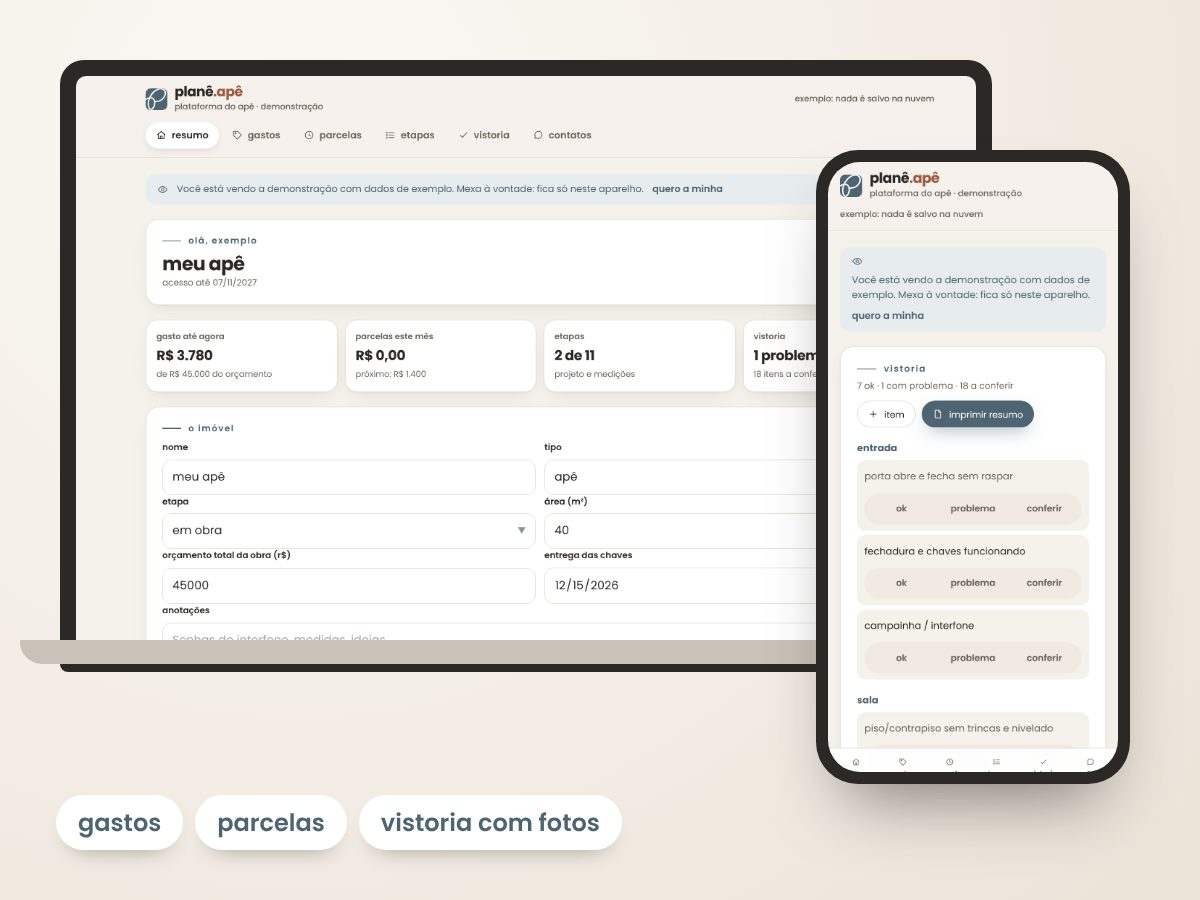
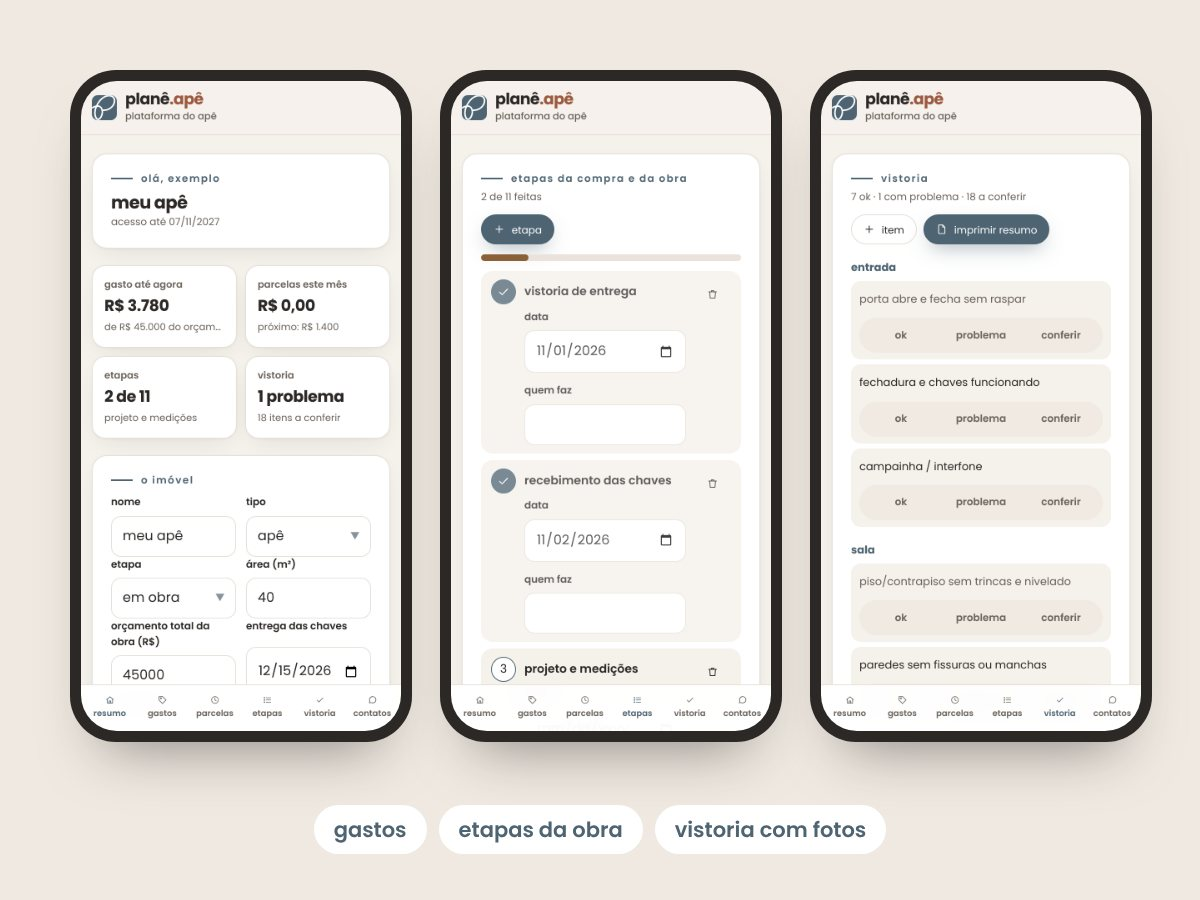
planê.apê: leitura com IA procura a chave em todas as admins e mostra o motivo quando falha; envio seguro dos arquivos da loja pelo GitHub; cartões alinhados com preço no Pix e no cartão; faixa de arquivos animada; projetos em primeira pessoa; mockup da plataforma só com celulares
Claude-Session: https://claude.ai/code/session_013WAnqmvzd8ZWtsf2naXoHW

Changed region(s): [[0.0, 0.0622, 0.9867, 0.9644]]

diff --git a/supabase/functions/pagamentos/ape.ts b/supabase/functions/pagamentos/ape.ts
@@ -3,6 +3,7 @@
 // Importado pelo index.ts da função "pagamentos". O preço nunca vem do navegador.
 
 import { PDFDocument, StandardFonts, rgb, degrees } from 'npm:pdf-lib@1.17.1'
+import { unzipSync } from 'npm:fflate@0.8.2'
 import type { SupabaseClient } from 'npm:@supabase/supabase-js@2'
 
 type J = Record<string, any>
@@ -314,13 +315,17 @@ export function makeApe({ db, asaas, json, site, env }: Deps) {
     for (let i = 0; i < u.length; i += 0x8000) s += String.fromCharCode(...u.subarray(i, i + 0x8000))
     return btoa(s)
   }
+  /** Chave do Gemini: o segredo GEMINI_API_KEY ou a chave que uma admin colocou no planê (configurações → assistente). */
   async function geminiKey() {
-    const k = env('GEMINI_API_KEY')
+    const k = env('GEMINI_API_KEY').trim()
     if (k) return k
-    const { data: adm } = await db.from('admins').select('user_id').limit(1).maybeSingle()
-    if (!adm) return ''
-    const { data: ws } = await db.from('workspace').select('data').eq('user_id', adm.user_id).maybeSingle()
-    return String((ws?.data as J | undefined)?.settings?.aiKey ?? '')
+    const { data: adms } = await db.from('admins').select('user_id')
+    for (const a of adms ?? []) {
+      const { data: ws } = await db.from('workspace').select('data').eq('user_id', a.user_id).maybeSingle()
+      const key = String((ws?.data as J | undefined)?.settings?.aiKey ?? '').trim()
+      if (key) return key
+    }
+    return ''
   }
   const PROMPT = (hoje: string, texto: string) => `Você lê UM orçamento de obra, reforma ou móveis (pode ser PDF, foto ou texto) e devolve só JSON, sem comentários. Hoje é ${hoje}.
 Formato:
@@ -362,7 +367,11 @@ Regras: números em reais sem R$ (1234.5). Não invente: o que não estiver escr
       body: JSON.stringify({ contents: [{ role: 'user', parts: [...parts, { text: PROMPT(hojeBR(), texto) }] }], generationConfig: { temperature: 0.1, responseMimeType: 'application/json', thinkingConfig: { thinkingBudget: 0 } } }),
     })
     const out = (await r.json().catch(() => ({}))) as J
-    if (!r.ok) return json({ erro: 'não deu para ler agora' }, 502)
+    if (!r.ok) {
+      const msg = String(out.error?.message ?? '')
+      console.log('ape-ler: Gemini respondeu', r.status, msg.slice(0, 300))
+      return json({ erro: r.status === 400 && /api key/i.test(msg) ? 'chave do Gemini inválida' : r.status === 429 ? 'limite do Gemini atingido' : 'não deu para ler agora', status: r.status }, 502)
+    }
     const txt = String(out.candidates?.[0]?.content?.parts?.map((x: J) => x.text ?? '').join('') ?? '')
     let v: J = {}
     try {
@@ -374,5 +383,61 @@ Regras: números em reais sem R$ (1234.5). Não invente: o que não estiver escr
     return json({ orcamento: v })
   }
 
-  return { criar, pedido, baixar, recuperar, reembolsar, ler, marcarPago }
+  /* ===== arquivos da loja enviados criptografados (pelo GitHub): só este servidor tem a chave para abrir ===== */
+  async function chave() {
+    const { data: ja } = await db.from('ape_segredos').select('dados').eq('id', 'arquivos').maybeSingle()
+    if (ja) return json({ publica: (ja.dados as J).publica })
+    const par = await crypto.subtle.generateKey({ name: 'RSA-OAEP', modulusLength: 3072, publicExponent: new Uint8Array([1, 0, 1]), hash: 'SHA-256' }, true, ['encrypt', 'decrypt'])
+    const publica = await crypto.subtle.exportKey('jwk', par.publicKey)
+    const privada = await crypto.subtle.exportKey('jwk', par.privateKey)
+    await db.from('ape_segredos').insert({ id: 'arquivos', dados: { publica, privada } })
+    return json({ publica })
+  }
+  const FONTE = /^https:\/\/raw\.githubusercontent\.com\/arqlais\/controle\/[0-9a-f]{7,40}\/ape-import\/[\w.-]+\.bin$/
+  async function importar(body: J) {
+    const url = String(body.url ?? '')
+    if (!FONTE.test(url)) return json({ erro: 'endereço não aceito' }, 400)
+    const { data: seg } = await db.from('ape_segredos').select('dados').eq('id', 'arquivos').maybeSingle()
+    if (!seg) return json({ erro: 'sem chave' }, 400)
+    const r = await fetch(url)
+    if (!r.ok) return json({ erro: `não baixou (${r.status})` }, 400)
+    const buf = new Uint8Array(await r.arrayBuffer())
+    if (buf.length > 40 * 1024 * 1024) return json({ erro: 'grande demais' }, 400)
+    // formato: [2 bytes: tamanho da chave cifrada][chave AES cifrada com RSA-OAEP][12 bytes IV][zip cifrado com AES-GCM]
+    const n = (buf[0] << 8) | buf[1]
+    const priv = await crypto.subtle.importKey('jwk', (seg.dados as J).privada, { name: 'RSA-OAEP', hash: 'SHA-256' }, false, ['decrypt'])
+    const aesRaw = await crypto.subtle.decrypt({ name: 'RSA-OAEP' }, priv, buf.slice(2, 2 + n))
+    const aes = await crypto.subtle.importKey('raw', aesRaw, 'AES-GCM', false, ['decrypt'])
+    const iv = buf.slice(2 + n, 14 + n)
+    const zip = new Uint8Array(await crypto.subtle.decrypt({ name: 'AES-GCM', iv }, aes, buf.slice(14 + n)))
+    const arquivos = unzipSync(zip)
+    const { map } = await loja()
+    const ids = [...Object.keys(map).filter((id) => map[id].cat === 'arquivos'), 'bonus'].sort((a, b) => b.length - a.length)
+    const st = db.storage.from('ape-arquivos')
+    const feitos: string[] = []
+    const fora: string[] = []
+    for (const [nome, dados] of Object.entries(arquivos)) {
+      if (nome.endsWith('/') || nome.startsWith('__')) continue
+      const base = nome.split('/').pop()!.replace(/\.[^.]+$/, '').toLowerCase()
+      const id = ids.find((x) => base === x || base.startsWith(x + '-'))
+      if (!id) {
+        fora.push(nome)
+        continue
+      }
+      const arq = nome.split('/').pop()!
+      const tipo = /\.pdf$/i.test(arq) ? 'application/pdf' : 'application/vnd.openxmlformats-officedocument.spreadsheetml.sheet'
+      const { error } = await st.upload(`${id}/${arq}`, dados, { contentType: tipo, upsert: true })
+      if (error) fora.push(`${nome} (${error.message})`)
+      else feitos.push(`${id}/${arq}`)
+    }
+    // entregas já marcadas (PDF com a licença) são refeitas com os arquivos novos
+    const { data: velhos } = await st.list('entregas', { limit: 1000 })
+    for (const pasta of velhos ?? []) {
+      const { data: fs } = await st.list(`entregas/${pasta.name}`, { limit: 100 })
+      if (fs?.length) await st.remove(fs.map((f) => `entregas/${pasta.name}/${f.name}`))
+    }
+    return json({ ok: true, guardados: feitos.length, arquivos: feitos, fora })
+  }
+
+  return { criar, pedido, baixar, recuperar, reembolsar, ler, marcarPago, chave, importar }
 }

diff --git a/src/ape/Loja.tsx b/src/ape/Loja.tsx
@@ -9,10 +9,12 @@ import { SITE_APE, cpfOk, emailOk, fmtCpf, useCarrinho, useToast, useTravaRolage
 /* Loja do planê.apê: página de vendas aberta a todos, carrinho, checkout e página do pedido. */
 
 type ById = (id: string) => Produto | undefined
+let PIX = 5 // desconto do Pix da loja salva (definido ao abrir a loja)
 
 export function Loja({ ajustes, me, whats, abrir }: { ajustes: Ajustes; me: Morador | null; whats: string; abrir?: string }) {
   const produtos = ajustes.produtos
   const pixPct = ajustes.pixPct ?? 5
+  PIX = pixPct
   const ativos = produtos.filter((p) => p.ativo)
   const [cat, setCat] = useState<'todos' | 'comprando' | 'comprei'>('todos')
   const [aberto, setAberto] = useState<Produto | null>(() => ativos.find((p) => p.id === abrir) || null)
@@ -70,6 +72,16 @@ export function Loja({ ajustes, me, whats, abrir }: { ajustes: Ajustes; me: Mora
           {['m-compra.jpg', 'm-planilha.jpg', 'm-checklist.jpg'].map((f, i) => <img key={f} src={`ape/amostras/${f}`} alt="" className={`ape-lp-card c${i}`} />)}
         </div>
       </section>
+
+      <div className="ape-marquee" aria-hidden="true">
+        <div className="ape-marquee-track">
+          {[0, 1].map((k) => (
+            <span key={k}>
+              {arquivos.map((p) => <b key={p.id}><ApeIcon name="check" />{p.nome.toLowerCase()}</b>)}
+            </span>
+          ))}
+        </div>
+      </div>
 
       <section className="ape-story ape-panel">
         <span className="ape-me-av">L</span>
@@ -217,13 +229,13 @@ function ServicosSec({ whats, me }: { whats: string; me: Morador | null }) {
   return (
     <section className="ape-servicos ape-panel" id="loja-servicos">
       <div className="ape-servicos-h">
-        <ApeArt name="projeto3d" size={48} tone="sec" />
+        <ApeArt name="projeto3d" size={44} tone="sec" />
         <div>
           <p className="ape-eyebrow">serviço à parte · não faz parte da loja</p>
-          <h3 className="ape-sec-t">projetos e <em>reformas</em></h3>
+          <h3 className="ape-sec-t">precisa de um <em>projeto?</em></h3>
         </div>
       </div>
-      <p className="ape-note" style={{ margin: 0 }}>A {APE.dona} é estudante de Arquitetura e Urbanismo e trabalha em parceria com o pai, engenheiro civil, em projetos, serviços técnicos e reformas, inclusive para quem acabou de receber as chaves.</p>
+      <p className="ape-servicos-eu">Sou a {APE.dona}, estou no {APE.semestre} semestre de Arquitetura e Urbanismo e trabalho junto com o meu pai, que é engenheiro civil. Fazemos projetos, serviços técnicos e reformas, inclusive para quem acabou de receber as chaves.</p>
       <div className="ape-servicos-grid">
         {[
           ['projeto de layout e interiores', 'Planta com móveis, medidas e acabamentos.'],
@@ -304,14 +316,14 @@ const somaAvulsos = (p: Produto, byId: ById) => (p.combo || []).reduce((t, id) =
 
 function Preco({ p, byId, pixPct }: { p: Produto; byId: ById; pixPct?: number }) {
   const soma = somaAvulsos(p, byId)
-  const eco = p.combo?.length ? Math.max(0, soma - reais(p.preco)) : 0
+  const v = reais(p.preco)
+  const eco = p.combo?.length ? Math.max(0, soma - v) : 0
+  const pix = pixPct ? Math.round((v - Math.round(v * pixPct / 100 * 100) / 100) * 100) / 100 : v // mesma conta do carrinho e do servidor
   return (
-    <div className="ape-price">
-      {eco > 0 && <s className="ape-de ape-keep">{brl(soma)} separados</s>}
-      <span className="ape-keep">{p.preco}</span>
-      {p.unidade && <small> {p.unidade}</small>}
-      {pixPct ? <span className="ape-note ape-keep" style={{ display: 'block' }}>{brl(Math.round(reais(p.preco) * (100 - pixPct)) / 100)} no Pix</span> : null}
-      {eco > 0 && <span className="ape-pill rosa ape-keep" style={{ display: 'table', marginTop: 6 }}>economia de {brl(eco)} ({Math.round((eco / soma) * 100)}%)</span>}
+    <div className="ape-precos">
+      <div className="ape-precos-pix ape-keep">{brl(pix)} <small>no Pix</small></div>
+      <div className="ape-precos-cartao ape-keep">{brl(v)} no cartão{p.unidade ? ` · ${p.unidade}` : ''}</div>
+      {eco > 0 ? <div className="ape-precos-eco ape-keep"><s>{brl(soma)}</s> separados · economia de {Math.round((eco / soma) * 100)}%</div> : <div className="ape-precos-eco" aria-hidden="true">&nbsp;</div>}
     </div>
   )
 }
@@ -359,12 +371,11 @@ function ProdCard({ p, n, byId, onOpen, cart, onAdd, me, whats }: { p: Produto; 
       </div>
       <div className="ape-tags">
         {p.tag && <span className={`ape-pill ${p.destaque ? 'azul' : 'terra'}`}>{p.tag}</span>}
-        {(p.numeros || []).slice(0, 2).map((x) => <span key={x} className="ape-pill ape-keep">{x}</span>)}
-        {p.combo?.length ? <span className="ape-pill">{p.combo.length} arquivos</span> : null}
+        {p.combo?.length ? <span className="ape-pill">{p.combo.length} arquivos</span> : (p.numeros || []).slice(0, 1).map((x) => <span key={x} className="ape-pill ape-keep">{x}</span>)}
       </div>
-      <p>{p.desc}</p>
-      {(p.itens || []).length > 0 && p.combo?.length ? <p className="ape-note" style={{ margin: 0 }}><ApeIcon name="gift" /> {p.itens!.map((x) => x.replace(/^\+\s*/, '')).join(' · ')}</p> : null}
-      <Preco p={p} byId={byId} />
+      <p className="ape-prod-desc">{p.desc}</p>
+      {(p.itens || []).length > 0 && p.combo?.length ? <p className="ape-note ape-prod-extra"><ApeIcon name="gift" /> {p.itens!.map((x) => x.replace(/^\+\s*/, '')).join(' · ')}</p> : null}
+      <Preco p={p} byId={byId} pixPct={PIX} />
       <div className="ape-acts">
         <button className="ape-btn wide" onClick={onOpen}>detalhes</button>
         <BotaoCompra p={p} cart={cart} onAdd={onAdd} me={me} whats={whats} />

diff --git a/src/ape/ape.css b/src/ape/ape.css
@@ -854,3 +854,33 @@
 .ape-tabela { list-style: none; margin: 0; padding: 0; display: grid; gap: 3px; font-size: 12.5px; }
 .ape-tabela li { display: flex; justify-content: space-between; gap: 10px; border-bottom: 1px solid var(--a-line); padding: 3px 0; }
 .ape-tabela li span { min-width: 0; overflow-wrap: anywhere; }
+
+/* cartões da loja alinhados: mesma altura de título, descrição e preço */
+.ape-shop { align-items: stretch; }
+.ape .ape-prod { display: grid; grid-template-rows: auto auto auto 1fr auto auto; gap: 10px; padding: 16px; }
+.ape .ape-prod .ape-prod-h { min-height: 2.6em; align-items: center; }
+.ape .ape-prod .ape-prod-h h3 { font-size: 15.5px; line-height: 1.3; display: -webkit-box; -webkit-line-clamp: 2; -webkit-box-orient: vertical; overflow: hidden; }
+.ape .ape-prod .ape-tags { flex-wrap: nowrap; overflow: hidden; min-height: 22px; }
+.ape .ape-prod-desc { font-size: 12.5px; line-height: 1.5; display: -webkit-box; -webkit-line-clamp: 3; -webkit-box-orient: vertical; overflow: hidden; align-self: start; }
+.ape .ape-prod-extra { margin: 0; font-size: 11.5px; align-self: end; }
+.ape .ape-prod .ape-acts { margin-top: 0; }
+.ape .ape-prod .ape-acts .ape-btn { min-height: 42px; font-size: 13.5px; }
+.ape-precos { display: grid; gap: 1px; padding-top: 10px; border-top: 1px solid var(--a-line); }
+.ape-precos-pix { font-size: 21px; font-weight: 700; letter-spacing: -0.02em; color: var(--a-pri); line-height: 1.15; }
+.ape-precos-pix small { font-size: 12px; font-weight: 600; color: var(--a-pri); letter-spacing: 0; }
+.ape-precos-cartao { font-size: 12px; color: var(--a-muted); }
+.ape-precos-eco { font-size: 11.5px; color: var(--a-sec); font-weight: 600; min-height: 1.4em; }
+.ape-precos-eco s { color: var(--a-muted); font-weight: 500; }
+.ape-sheet .ape-precos { border-top: 0; padding-top: 0; }
+
+/* faixa com os nomes dos arquivos: corre sem parar */
+.ape .ape-marquee { overflow: hidden; border-block: 1px solid var(--a-line); padding: 10px 0; margin-inline: -16px; -webkit-mask-image: linear-gradient(90deg, transparent, #000 8%, #000 92%, transparent); mask-image: linear-gradient(90deg, transparent, #000 8%, #000 92%, transparent); }
+.ape .ape-marquee-track { display: flex; width: max-content; animation: ape-corre 45s linear infinite; }
+.ape .ape-marquee:hover .ape-marquee-track { animation-play-state: paused; }
+.ape .ape-marquee-track > span { display: flex; gap: 26px; padding-right: 26px; }
+.ape .ape-marquee b { display: inline-flex; gap: 6px; align-items: center; font-size: 13px; font-weight: 600; color: var(--a-muted); white-space: nowrap; }
+.ape .ape-marquee b .ape-i { color: var(--a-pri); }
+@keyframes ape-corre { to { transform: translateX(-50%); } }
+
+/* projetos: apresentação em primeira pessoa */
+.ape-servicos-eu { margin: 0; font-size: 14px; color: var(--a-ink); max-width: 70ch; }

diff --git a/src/ape/Enviar.tsx b/src/ape/Enviar.tsx
@@ -58,7 +58,8 @@ export function Enviar({ me, whats, orcamentos, meusIds, onPublicado, onCadastro
       if (file) arquivos = await subirArquivos([file])
       atualizar(key, (l) => ({ ...l, arquivos }))
       const textoLocal = file ? await textoDoPdf(file) : txt
-      const ia = me ? await lerArquivo(me.id, arquivos[0] || null, file ? '' : txt) : null
+      const lido = me ? await lerArquivo(me.id, arquivos[0] || null, file ? '' : txt) : { o: null }
+      const ia = lido.o
       const regra = textoLocal ? lerTexto(textoLocal) : {}
       const base = cleanOrcamento({ ...regra, ...(ia || {}) } as Record<string, unknown>, { nicho: 'outros' })
       // o que a IA não trouxe, as regras completam
@@ -69,7 +70,7 @@ export function Enviar({ me, whats, orcamentos, meusIds, onPublicado, onCadastro
       if (base.nicho === 'outros') base.nicho = (nichoDoTexto(textoLocal + ' ' + base.servico) || 'outros') as Orcamento['nicho']
       if (!base.servico) base.servico = base.nicho !== 'outros' ? nicho(base.nicho).l : ''
       if (t !== 'orcamento') base.tipo = t
-      atualizar(key, (l) => ({ ...l, o: { ...base, id: l.o.id }, status: 'pronto', msg: ia ? 'lido automaticamente' : textoLocal ? 'lido pelo texto do arquivo' : 'complete os dados' }))
+      atualizar(key, (l) => ({ ...l, o: { ...base, id: l.o.id }, status: 'pronto', msg: ia ? 'lido automaticamente' : `${lido.erro ? `leitura automática indisponível (${lido.erro}) · ` : ''}${textoLocal ? 'lido pelo texto do arquivo' : 'complete os dados'}` }))
     } catch (x) {
       atualizar(key, (l) => ({ ...l, status: 'erro', msg: String((x as Error).message) }))
     }

diff --git a/src/ape/api.ts b/src/ape/api.ts
@@ -144,16 +144,20 @@ export async function subirArquivos(files: File[], onStep?: (t: string) => void)
   return out
 }
 
-/** Lê UM arquivo do orçamento com IA (no servidor) e devolve os campos para a comparação. Sem IA, devolve null. */
-export async function lerArquivo(moradorId: string, arquivo: Arquivo | null, texto = ''): Promise<Record<string, unknown> | null> {
-  if (!CLOUD || (!arquivo?.path && !texto.trim())) return null
+/** Lê UM arquivo do orçamento com IA (no servidor) e devolve os campos para a comparação, ou o motivo de não ter lido. */
+export async function lerArquivo(moradorId: string, arquivo: Arquivo | null, texto = ''): Promise<{ o: Record<string, unknown> | null; erro?: string }> {
+  if (!CLOUD) return { o: null, erro: 'prévia sem IA' }
+  if (!arquivo?.path && !texto.trim()) return { o: null }
   try {
     const { data, error } = await sb().functions.invoke('pagamentos', { body: { acao: 'ape-ler', morador: moradorId, arquivo: arquivo?.path || '', texto } })
     const o = (data as { orcamento?: Record<string, unknown> } | null)?.orcamento
-    if (error || !o) return null
-    return o
-  } catch {
-    return null
+    if (o) return { o }
+    let erro = (data as { erro?: string } | null)?.erro || ''
+    const ctx = (error as { context?: Response } | null)?.context
+    if (!erro && ctx) erro = ((await ctx.json().catch(() => null)) as { erro?: string } | null)?.erro || ''
+    return { o: null, erro: erro || error?.message || 'sem resposta' }
+  } catch (e) {
+    return { o: null, erro: String((e as Error).message) }
   }
 }
 

diff --git a/supabase/functions/pagamentos/index.ts b/supabase/functions/pagamentos/index.ts
@@ -217,6 +217,8 @@ Deno.serve(async (req) => {
       if (b.acao === 'ape-pedido') return await ape.pedido(b)
       if (b.acao === 'ape-baixar') return await ape.baixar(b)
       if (b.acao === 'ape-recuperar') return await ape.recuperar(b)
+      if (b.acao === 'ape-chave') return await ape.chave()
+      if (b.acao === 'ape-importar') return await ape.importar(b)
       return json({ erro: 'Falta o segredo ASAAS_API_KEY no Supabase.' }, 500)
     }
     if (url.searchParams.get('acao') === 'webhook' || req.headers.has('asaas-access-token')) return await webhook(req)
@@ -228,6 +230,8 @@ Deno.serve(async (req) => {
     if (body.acao === 'ape-recuperar') return await ape.recuperar(body)
     if (body.acao === 'ape-reembolsar') return await ape.reembolsar(req, body)
     if (body.acao === 'ape-ler') return await ape.ler(body)
+    if (body.acao === 'ape-chave') return await ape.chave()
+    if (body.acao === 'ape-importar') return await ape.importar(body)
     return json({ erro: 'Ação desconhecida.' }, 400)
   } catch (e) {
     return json({ erro: e instanceof Error ? e.message : String(e) }, 500)

diff --git a/src/ape/model.ts b/src/ape/model.ts
@@ -6,6 +6,7 @@ export const APE = {
   condominio: 'San Levi',
   apes: '38 a 40 m²',
   dona: 'Laís',
+  semestre: '9º', // semestre da Laís em Arquitetura e Urbanismo (aparece em projetos e reformas)
   doApe: 'apê 1204',
   meuApe: '40 m²', // o apê da Laís (exemplo padrão nos materiais)
   instagram: '@apzinho_1204',
